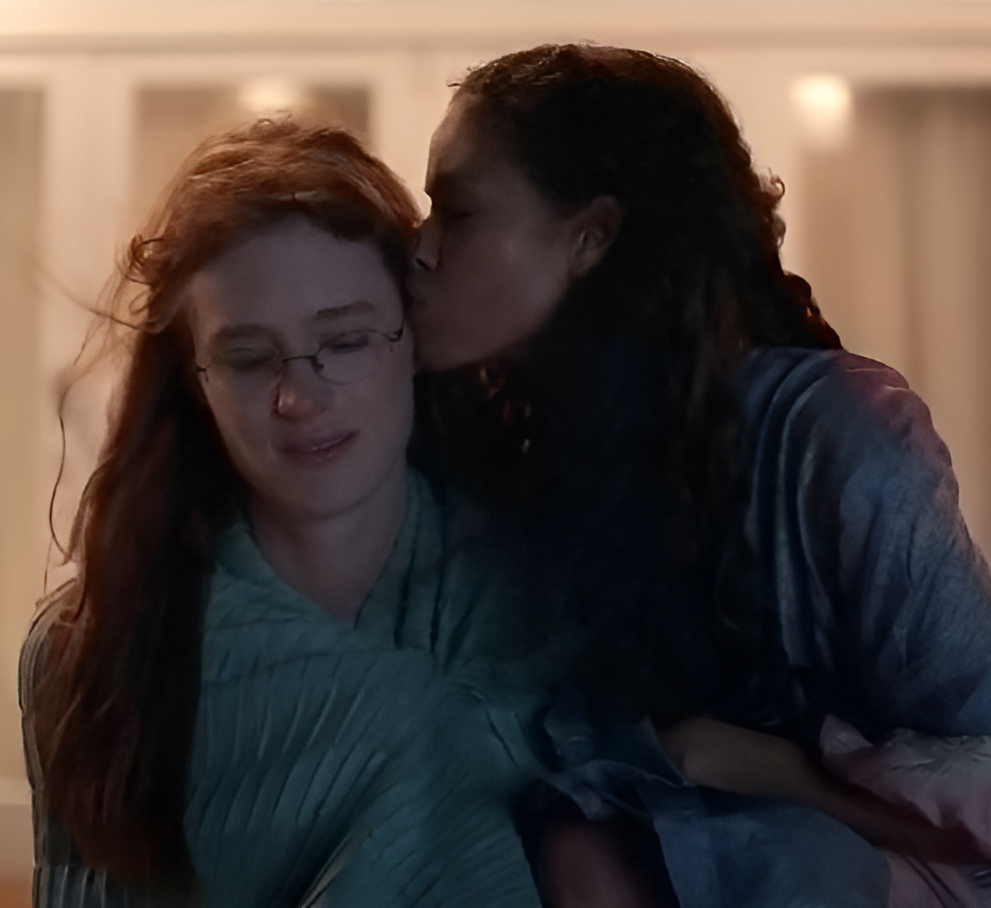
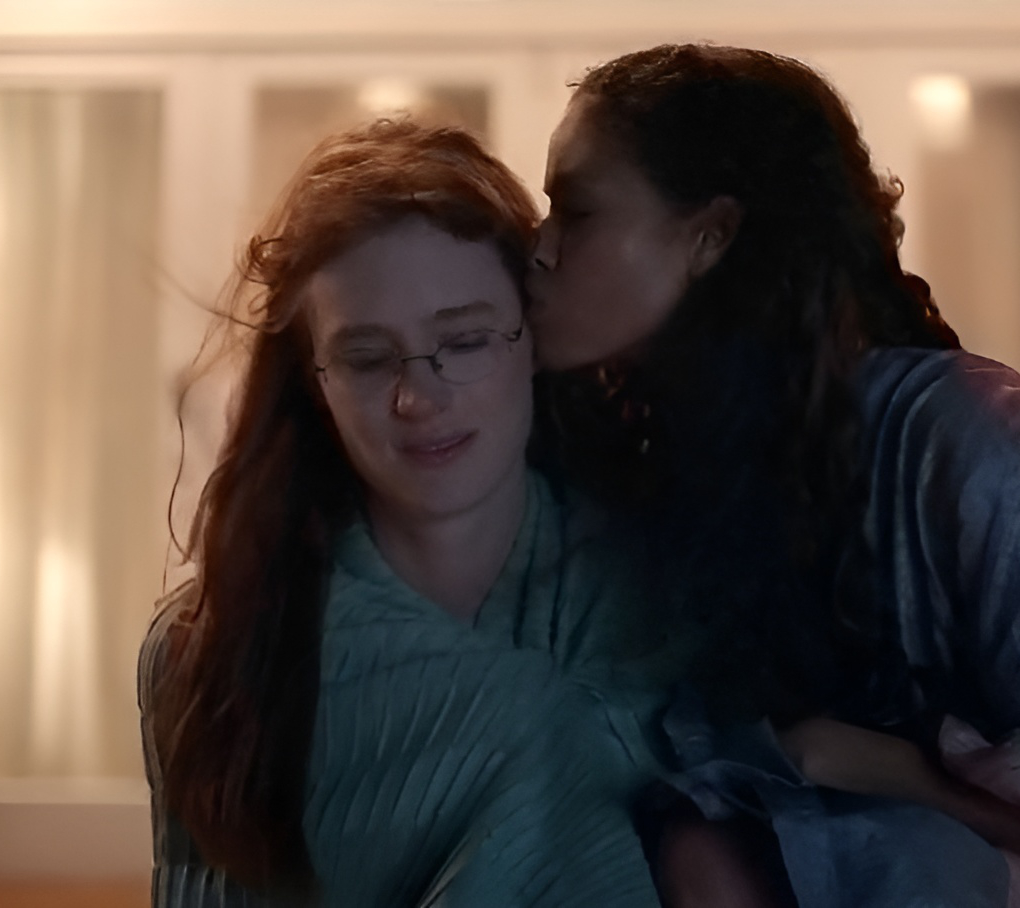
adjust responsive sizing

diff --git a/black-mirror-landing-page/src/meet-me.vue b/black-mirror-landing-page/src/meet-me.vue
@@ -8,13 +8,13 @@
             , 'noise-tuscany-vertical': !isXlScreen && isHospitalSceneActive
             , 'noise-dark-gunmetal-vertical': !isXlScreen && !isHospitalSceneActive
         }">
-        <div id="image-container" class="rounded-full overflow-hidden xl:col-span-6 row-span-2 justify-self-center"
+        <div id="image-container" class="rounded-full overflow-hidden xl:col-span-6 row-span-2 justify-self-center relative"
             :class="{ 'hospital-scene-active': isHospitalSceneActive, 'beach-scene-active': !isHospitalSceneActive }">
-            <p class="nanum-myeongjo text-white absolute top-1/2 left-1/2 z-10 text-xl xl:text-4xl w-1/3 text-center"
+            <p class="nanum-myeongjo text-white z-10 text-xl xl:text-4xl w-1/3 text-center meet-me absolute"
                 v-if="!isHospitalSceneActive">
                 “If we really met, you wouldn't like me.”
             </p>
-            <p class="nanum-myeongjo text-white absolute mt-36 ml-44 xl:mt-80 xl:ml-96 z-10 text-xl xl:text-4xl w-36 xl:w-64 text-center"
+            <p class="nanum-myeongjo text-white z-10 text-xl xl:text-4xl w-36 xl:w-64 text-center hello-stupid absolute"
                 v-if="isHospitalSceneActive">
                 “Hello Stupid, it’s good to see you.”</p>
             <div class="relative w-full h-full">
@@ -81,10 +81,20 @@ main {
     background-size: cover;
 }
 
+.hello-stupid{
+    margin-top: 23%;
+    margin-left: 33%;
+}
+
+.meet-me{
+    margin-top: 55%;
+    margin-left: 50%;
+}
+
 @media (max-width:1280px) {
     #image-container {
-        height: 36rem;
-        width: 36rem;
+        height: 32rem;
+        width: 32rem;
     }
 
 }
